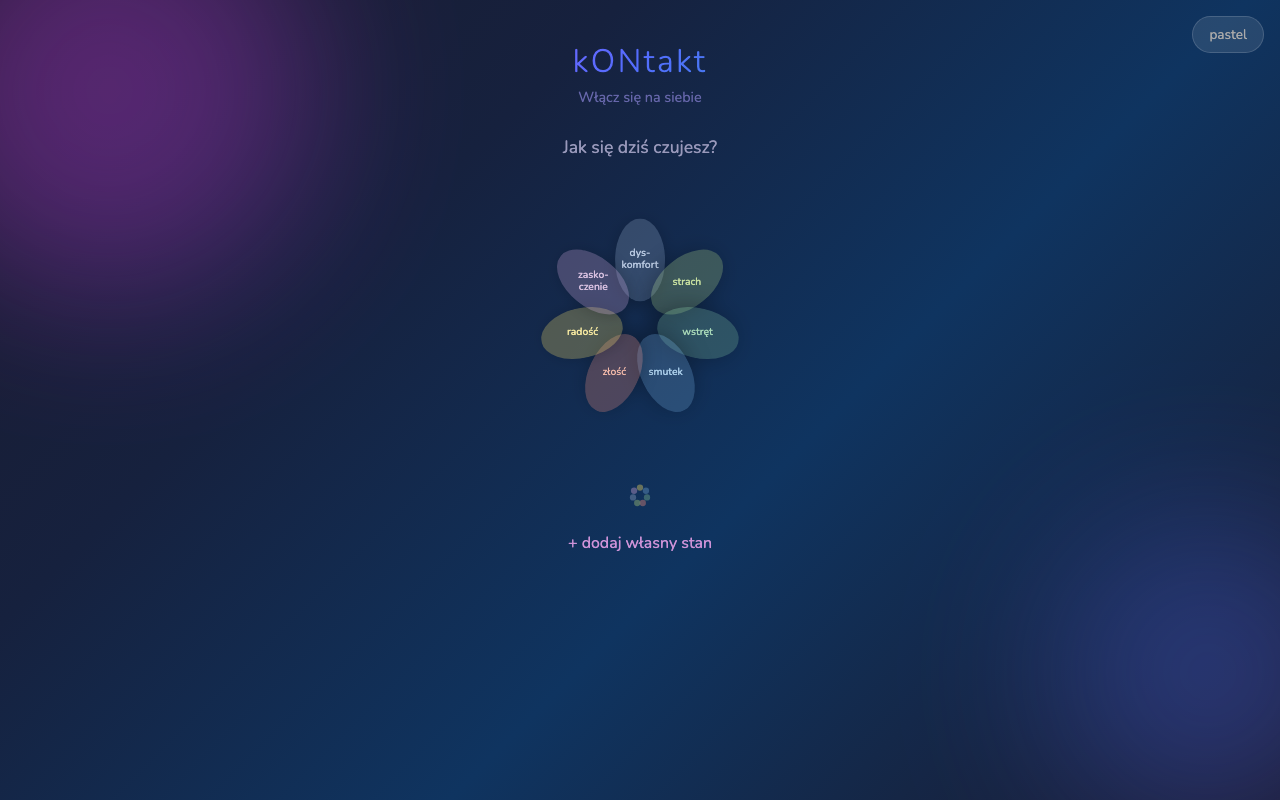
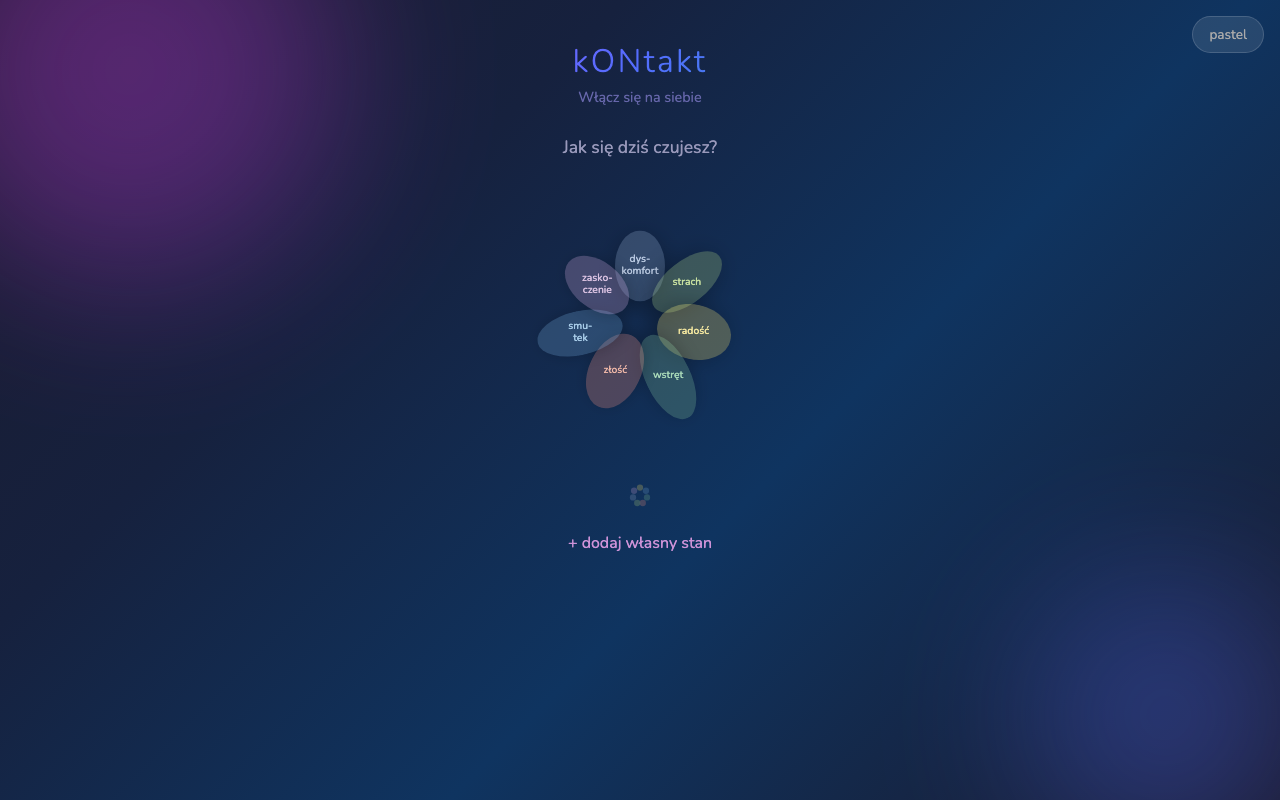
Add screenshot/GIF scripts, multi-device screenshots with seeded pie data
- scripts/screenshots.js: automated screenshots for iphonese, iphone14,
  pixel5, desktop — seeds 3-4 past entries so screen2 pie chart has data
- scripts/gif.js: generates user-journey GIF with full flow (circle, flower,
  pie chart, theme switch) using ffmpeg
- Regenerated all screenshots with seeded data across 4 devices
- Updated README screenshot gallery with new naming and pie chart views
- Unique petal proportions in flower layout for organic variety

Changed region(s): [[0.4062, 0.2812, 0.5938, 0.5], [0.5312, 0.5, 0.5625, 0.5312]]

diff --git a/scripts/gif.js b/scripts/gif.js
@@ -1,0 +1,148 @@
+#!/usr/bin/env node
+/**
+ * Generate user-journey GIF for kONtakt app.
+ * Usage: node scripts/gif.js [--device <name>] [--out <path>] [--fps <n>]
+ *
+ * Requires: ffmpeg
+ * Default: iPhone SE, output to docs/screenshots/user-journey.gif, 3 fps
+ */
+const { chromium, devices } = require('playwright');
+const { execFileSync } = require('child_process');
+const path = require('path');
+const fs = require('fs');
+
+const DEVICES = {
+  iphonese: { ...devices['iPhone SE'], name: 'iphonese' },
+  iphone14: { ...devices['iPhone 14'], name: 'iphone14' },
+  pixel5: { ...devices['Pixel 5'], name: 'pixel5' },
+  desktop: { viewport: { width: 1280, height: 800 }, name: 'desktop' },
+};
+
+// Seed 3-4 past entries so screen2 pie chart has data
+const SEED_ENTRIES = [
+  { date: seedDate(-3), emotions: ['radość'] },
+  { date: seedDate(-2), emotions: ['smutek'] },
+  { date: seedDate(-2), emotions: ['strach'] },
+  { date: seedDate(-1), emotions: ['złość'] },
+];
+
+function seedDate(offset) {
+  const d = new Date();
+  d.setDate(d.getDate() + offset);
+  return d.toISOString().slice(0, 10);
+}
+
+(async () => {
+  const args = process.argv.slice(2);
+  let deviceKey = 'iphonese';
+  let outPath = path.resolve(__dirname, '..', 'docs', 'screenshots', 'user-journey.gif');
+  let fps = 3;
+
+  for (let i = 0; i < args.length; i++) {
+    if (args[i] === '--device' && args[i + 1]) deviceKey = args[++i];
+    if (args[i] === '--out' && args[i + 1]) outPath = path.resolve(args[++i]);
+    if (args[i] === '--fps' && args[i + 1]) fps = parseInt(args[++i], 10);
+  }
+
+  const dev = DEVICES[deviceKey];
+  if (!dev) { console.error(`Unknown device: ${deviceKey}`); process.exit(1); }
+
+  const tmpDir = path.join(require('os').tmpdir(), 'kontakt-gif-frames');
+  if (fs.existsSync(tmpDir)) fs.rmSync(tmpDir, { recursive: true });
+  fs.mkdirSync(tmpDir);
+
+  const browser = await chromium.launch();
+  const contextOpts = { ...dev };
+  delete contextOpts.name;
+  const ctx = await browser.newContext(contextOpts);
+  const page = await ctx.newPage();
+  const url = 'file://' + path.resolve(__dirname, '..', 'index.html');
+
+  // Seed entries
+  await page.addInitScript((entries) => {
+    localStorage.setItem('panigosia_entries', JSON.stringify(entries));
+    localStorage.removeItem('panigosia_last_vote');
+    localStorage.removeItem('panigosia_theme');
+  }, SEED_ENTRIES);
+
+  await page.goto(url);
+  await page.waitForTimeout(800);
+
+  let f = 0;
+  const shot = async () => {
+    await page.screenshot({ path: path.join(tmpDir, `frame-${String(f++).padStart(4, '0')}.png`) });
+  };
+  const hold = async (n) => { for (let i = 0; i < n; i++) await shot(); };
+  const click = async (sel) => {
+    await page.evaluate((s) => { const el = document.querySelector(s); if (el) el.click(); }, sel);
+  };
+  const animate = async (steps, delay) => {
+    for (let i = 0; i < steps; i++) { await page.waitForTimeout(delay); await shot(); }
+  };
+
+  console.log('Recording frames...');
+
+  // 1. Pastel circle (hold)
+  await hold(3);
+
+  // 2. Circle → flower animation
+  await click('#layoutToggle');
+  await animate(5, 200);
+  await hold(3);
+
+  // 3. Flower → circle
+  await click('#layoutToggle');
+  await animate(5, 200);
+  await hold(2);
+
+  // 4. Select emotion → screen2 (pie chart with seeded data)
+  await page.evaluate(() => {
+    const emos = document.querySelectorAll('.emo');
+    if (emos[0]) emos[0].click();
+  });
+  await page.waitForTimeout(500);
+  await hold(4);
+
+  // 5. Go back
+  await click('.back-btn');
+  await page.waitForTimeout(500);
+  await hold(2);
+
+  // 6. Switch to dark
+  await click('#themeToggle');
+  await page.waitForTimeout(500);
+  await hold(3);
+
+  // 7. Dark flower
+  await click('#layoutToggle');
+  await animate(5, 200);
+  await hold(3);
+
+  // 8. Back to dark circle
+  await click('#layoutToggle');
+  await animate(4, 200);
+  await hold(2);
+
+  await browser.close();
+  console.log(`Captured ${f} frames`);
+
+  // Generate GIF with ffmpeg using execFileSync (no shell injection)
+  const outDir = path.dirname(outPath);
+  if (!fs.existsSync(outDir)) fs.mkdirSync(outDir, { recursive: true });
+
+  console.log('Encoding GIF...');
+  execFileSync('ffmpeg', [
+    '-y',
+    '-framerate', String(fps),
+    '-i', path.join(tmpDir, 'frame-%04d.png'),
+    '-vf', 'scale=-1:-1:flags=lanczos,split[s0][s1];[s0]palettegen=max_colors=128[p];[s1][p]paletteuse=dither=bayer',
+    '-loop', '0',
+    outPath,
+  ], { stdio: 'inherit' });
+
+  // Cleanup
+  fs.rmSync(tmpDir, { recursive: true });
+
+  const size = (fs.statSync(outPath).size / 1024).toFixed(0);
+  console.log(`Done → ${outPath} (${size} KB)`);
+})();

diff --git a/scripts/screenshots.js b/scripts/screenshots.js
@@ -1,0 +1,131 @@
+#!/usr/bin/env node
+/**
+ * Take screenshots of kONtakt app in all variants.
+ * Usage: node scripts/screenshots.js [--device <name>] [--out <dir>]
+ *
+ * Devices: iphonese, iphone14, pixel5, desktop
+ * Default: all devices, output to docs/screenshots/
+ */
+const { chromium, devices } = require('playwright');
+const path = require('path');
+const fs = require('fs');
+
+const DEVICES = {
+  iphonese: { ...devices['iPhone SE'], name: 'iphonese' },
+  iphone14: { ...devices['iPhone 14'], name: 'iphone14' },
+  pixel5: { ...devices['Pixel 5'], name: 'pixel5' },
+  desktop: { viewport: { width: 1280, height: 800 }, name: 'desktop' },
+};
+
+// 3-4 past entries to seed screen2 pie chart
+const SEED_ENTRIES = [
+  { date: seedDate(-3), emotions: ['radość'] },
+  { date: seedDate(-2), emotions: ['smutek'] },
+  { date: seedDate(-1), emotions: ['strach'] },
+  { date: seedDate(0), emotions: ['złość'] },
+];
+
+function seedDate(offset) {
+  const d = new Date();
+  d.setDate(d.getDate() + offset);
+  return d.toISOString().slice(0, 10);
+}
+
+async function takeScreenshots(deviceKey, outDir) {
+  const dev = DEVICES[deviceKey];
+  const browser = await chromium.launch();
+  const contextOpts = { ...dev };
+  delete contextOpts.name;
+  const ctx = await browser.newContext(contextOpts);
+  const page = await ctx.newPage();
+  const url = 'file://' + path.resolve(__dirname, '..', 'index.html');
+
+  // Seed entries for pie chart on screen2
+  await page.addInitScript((entries) => {
+    localStorage.setItem('panigosia_entries', JSON.stringify(entries));
+    localStorage.removeItem('panigosia_last_vote');
+    localStorage.removeItem('panigosia_theme');
+  }, SEED_ENTRIES);
+
+  await page.goto(url);
+  await page.waitForTimeout(800);
+
+  const prefix = dev.name;
+  const shot = (name) => page.screenshot({ path: path.join(outDir, `${prefix}-${name}.png`) });
+
+  // --- Pastel (default) ---
+  // Circle
+  await shot('pastel-circle');
+
+  // Flower
+  await page.evaluate(() => document.querySelector('#layoutToggle').click());
+  await page.waitForTimeout(1200);
+  await shot('pastel-flower');
+
+  // Back to circle
+  await page.evaluate(() => document.querySelector('#layoutToggle').click());
+  await page.waitForTimeout(1000);
+
+  // Select emotion → screen2 with pie chart
+  await page.evaluate(() => {
+    const emos = document.querySelectorAll('.emo');
+    if (emos[0]) emos[0].click();
+  });
+  await page.waitForTimeout(600);
+  await shot('pastel-pie');
+
+  // Go back to screen1
+  await page.evaluate(() => {
+    const btn = document.querySelector('.back-btn');
+    if (btn) btn.click();
+  });
+  await page.waitForTimeout(500);
+
+  // --- Dark ---
+  await page.evaluate(() => document.querySelector('#themeToggle').click());
+  await page.waitForTimeout(500);
+
+  // Circle
+  await shot('dark-circle');
+
+  // Flower
+  await page.evaluate(() => document.querySelector('#layoutToggle').click());
+  await page.waitForTimeout(1200);
+  await shot('dark-flower');
+
+  // Back to circle
+  await page.evaluate(() => document.querySelector('#layoutToggle').click());
+  await page.waitForTimeout(1000);
+
+  // Select emotion → screen2
+  await page.evaluate(() => {
+    const emos = document.querySelectorAll('.emo');
+    if (emos[1]) emos[1].click();
+  });
+  await page.waitForTimeout(600);
+  await shot('dark-pie');
+
+  await browser.close();
+  console.log(`  ${prefix}: 6 screenshots`);
+}
+
+(async () => {
+  const args = process.argv.slice(2);
+  let deviceFilter = null;
+  let outDir = path.resolve(__dirname, '..', 'docs', 'screenshots');
+
+  for (let i = 0; i < args.length; i++) {
+    if (args[i] === '--device' && args[i + 1]) deviceFilter = args[++i];
+    if (args[i] === '--out' && args[i + 1]) outDir = path.resolve(args[++i]);
+  }
+
+  if (!fs.existsSync(outDir)) fs.mkdirSync(outDir, { recursive: true });
+
+  const targets = deviceFilter ? [deviceFilter] : Object.keys(DEVICES);
+  console.log('Taking screenshots...');
+  for (const key of targets) {
+    if (!DEVICES[key]) { console.error(`Unknown device: ${key}`); continue; }
+    await takeScreenshots(key, outDir);
+  }
+  console.log(`Done → ${outDir}`);
+})();

diff --git a/README.md b/README.md
@@ -23,15 +23,20 @@ kONtakt pomaga rodzicom i dzieciom w codziennym rozpoznawaniu i nazywaniu swoich
 
 ## Screenshoty
 
-| Widok | Ciemny | Pastelowy |
-|-------|--------|-----------|
-| Kolo emocji | ![Dark circle](docs/screenshots/mobile-dark-circle.png) | ![Pastel circle](docs/screenshots/mobile-pastel-circle.png) |
-| Kwiat emocji | ![Dark flower](docs/screenshots/mobile-dark-flower.png) | ![Pastel flower](docs/screenshots/mobile-pastel-flower.png) |
+### iPhone SE
 
-| Desktop |
-|---------|
-| ![Desktop dark](docs/screenshots/desktop-dark-circle.png) |
-| ![Desktop flower](docs/screenshots/desktop-dark-flower.png) |
+| Widok | Pastelowy | Ciemny |
+|-------|-----------|--------|
+| Kolo emocji | ![Pastel circle](docs/screenshots/iphonese-pastel-circle.png) | ![Dark circle](docs/screenshots/iphonese-dark-circle.png) |
+| Kwiat emocji | ![Pastel flower](docs/screenshots/iphonese-pastel-flower.png) | ![Dark flower](docs/screenshots/iphonese-dark-flower.png) |
+| Wykres | ![Pastel pie](docs/screenshots/iphonese-pastel-pie.png) | ![Dark pie](docs/screenshots/iphonese-dark-pie.png) |
+
+### Desktop
+
+| Pastelowy | Ciemny |
+|-----------|--------|
+| ![Desktop pastel](docs/screenshots/desktop-pastel-circle.png) | ![Desktop dark](docs/screenshots/desktop-dark-circle.png) |
+| ![Desktop pastel flower](docs/screenshots/desktop-pastel-flower.png) | ![Desktop dark flower](docs/screenshots/desktop-dark-flower.png) |
 
 ## Live
 